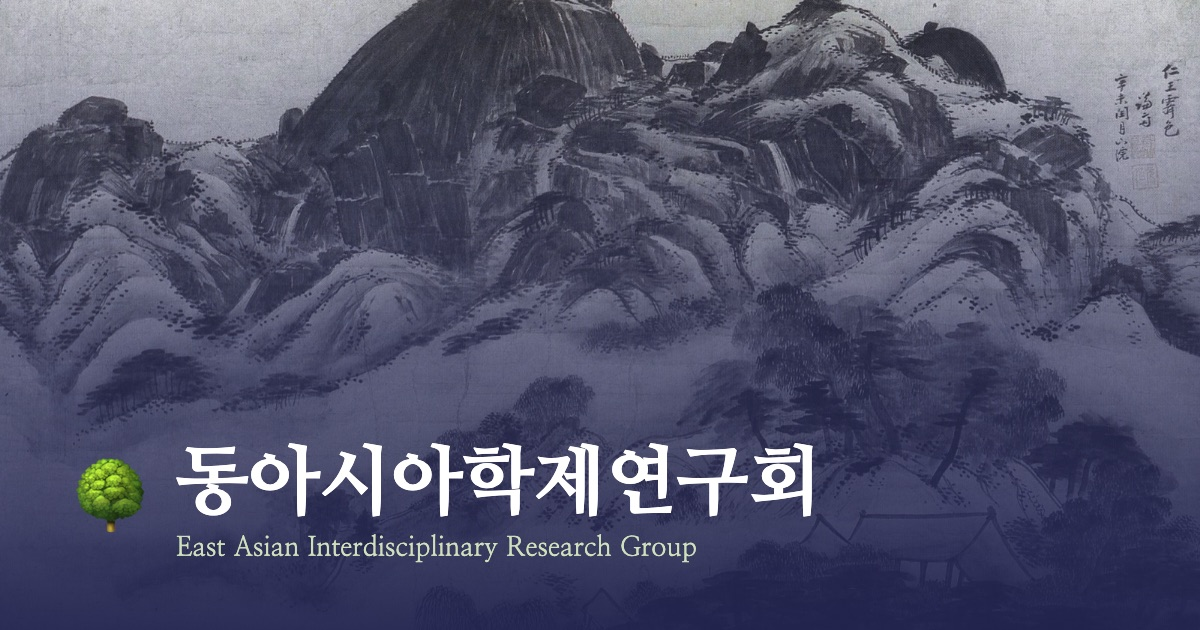
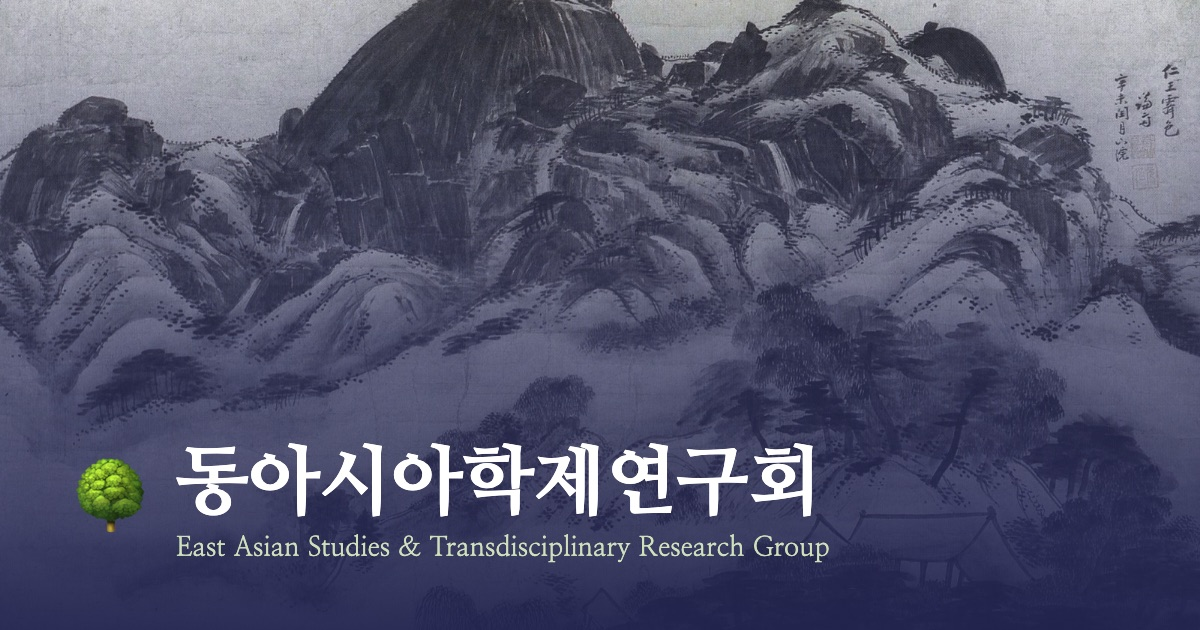
Rename to EAST Research Group and point at eastresearch.github.io
Full name is East Asian Studies & Transdisciplinary Research Group;
EAST Research Group is added as short_name_en and used in running prose,
where the full name would swallow the sentence. The banner tagline and
the link-preview card carry the full name.

The address is eastresearch.github.io rather than east-research: that
name is held by a dormant personal account, and GitHub does not release
names.

This commit changes site.url, so it must land AFTER the organisation and
repository are renamed -- pushing it first would point canonical URLs,
the sitemap and the preview card at an address that does not resolve yet.

Changed region(s): [[0.2467, 0.8444, 0.7092, 0.9048]]

diff --git a/index.html b/index.html
@@ -4,7 +4,7 @@ layout: default
 <main class="main-col">
   <div class="lede">
     <p class="i18n-ko">저희 {{ site.title }}는 한국고등교육재단 장학생들을 중심으로 2025년 8월에 시작된 학술 연구모임입니다. 인문학, 사회과학, 예술, 자연과학, 공학 등 다양한 분야를 전공하는 구성원들이 동아시아를 공통의 관심사로 삼아 서로 교류하고 함께 공부하고 있습니다. 매월 1회의 정기 온라인 미팅을 비롯하여 워크숍, 네트워킹, 멘토링 등 다양한 활동을 진행하고 있습니다.</p>
-    <p class="i18n-en">The {{ site.tagline }} was founded in August 2025 by scholars and students supported by the Korea Foundation for Advanced Studies (KFAS). Bringing together members from a wide range of fields, we come together around a shared interest in East Asia to exchange ideas and pursue collaborative learning. We hold a regular online meeting each month and organize a variety of activities, including workshops, networking events, and mentoring programs.</p>
+    <p class="i18n-en">The {{ site.short_name_en }} was founded in August 2025 by scholars and students supported by the Korea Foundation for Advanced Studies (KFAS). Bringing together members from a wide range of fields, we come together around a shared interest in East Asia to exchange ideas and pursue collaborative learning. We hold a regular online meeting each month and organize a variety of activities, including workshops, networking events, and mentoring programs.</p>
   </div>
 
   <div class="intro">
@@ -12,7 +12,7 @@ layout: default
     <p class="i18n-en">We believe that East Asia’s rich cultural heritage can serve not only as a source of inspiration for contemporary scholarship and creative work, but also as a continued foundation for new possibilities in the modern world. Yet we believe that this potential can be fully realized only through a critical engagement with the tradition and through active dialogue with other cultures and intellectual traditions today.</p>
 
     <p class="i18n-ko">{{ site.title }}는 이러한 관점에서 동아시아의 역사와 철학, 사회적 문제를 보다 넓은 시각에서 탐구하고자 합니다. 또한 학문 간의 경계를 넘어 서로 다른 분야의 관점과 방법론을 연결함으로써, 동아시아를 둘러싼 중요한 질문들을 새롭게 제기하고 그 답에 한 걸음 더 다가가는 것을 목표로 합니다.</p>
-    <p class="i18n-en">With this perspective, the {{ site.tagline }} seeks to explore the history, philosophy, and social issues of East Asia from broader and more diverse perspectives. By bringing together different disciplines, perspectives, and methodologies, we aim to cross conventional academic boundaries, raise important questions about East Asia, and take steps toward finding new and meaningful answers to them.</p>
+    <p class="i18n-en">With this perspective, the {{ site.short_name_en }} seeks to explore the history, philosophy, and social issues of East Asia from broader and more diverse perspectives. By bringing together different disciplines, perspectives, and methodologies, we aim to cross conventional academic boundaries, raise important questions about East Asia, and take steps toward finding new and meaningful answers to them.</p>
 
     <p class="signature">
       <span class="i18n-ko">학회장 이용우</span>

diff --git a/people.html b/people.html
@@ -66,6 +66,6 @@ permalink: /people/
   <div class="marginalia">
     <h3 class="aside-label"><span class="i18n-ko">구성원</span><span class="i18n-en">Members</span></h3>
     <p class="i18n-ko">{{ site.title }}는 {{ site.foundation_name }} 장학생들을 중심으로, 다양한 분야를 전공하는 학부생 및 대학원생들로 구성되어 있습니다.</p>
-    <p class="i18n-en">The {{ site.tagline }} is made up of undergraduate and graduate students from a wide range of fields, supported by the {{ site.foundation_name_en }}.</p>
+    <p class="i18n-en">The {{ site.short_name_en }} is made up of undergraduate and graduate students from a wide range of fields, supported by the {{ site.foundation_name_en }}.</p>
   </div>
 </aside>

diff --git a/tools/make_images.py b/tools/make_images.py
@@ -67,7 +67,7 @@ OG_HTML = """<!doctype html><meta charset="utf-8">
     <div class="mark">🌳</div>
     <div>
       <h1>동아시아학제연구회</h1>
-      <p>East Asian Interdisciplinary Research Group</p>
+      <p>East Asian Studies &amp; Transdisciplinary Research Group</p>
     </div>
   </div></div>
 </div>

diff --git a/README.md b/README.md
@@ -1,4 +1,6 @@
-# 동아시아학제연구회 (East Asian Interdisciplinary Research Group)
+# 동아시아학제연구회 (EAST Research Group)
+
+East Asian Studies & Transdisciplinary Research Group.
 
 Group site, built with Jekyll. The group is made up of scholarship
 recipients of the
